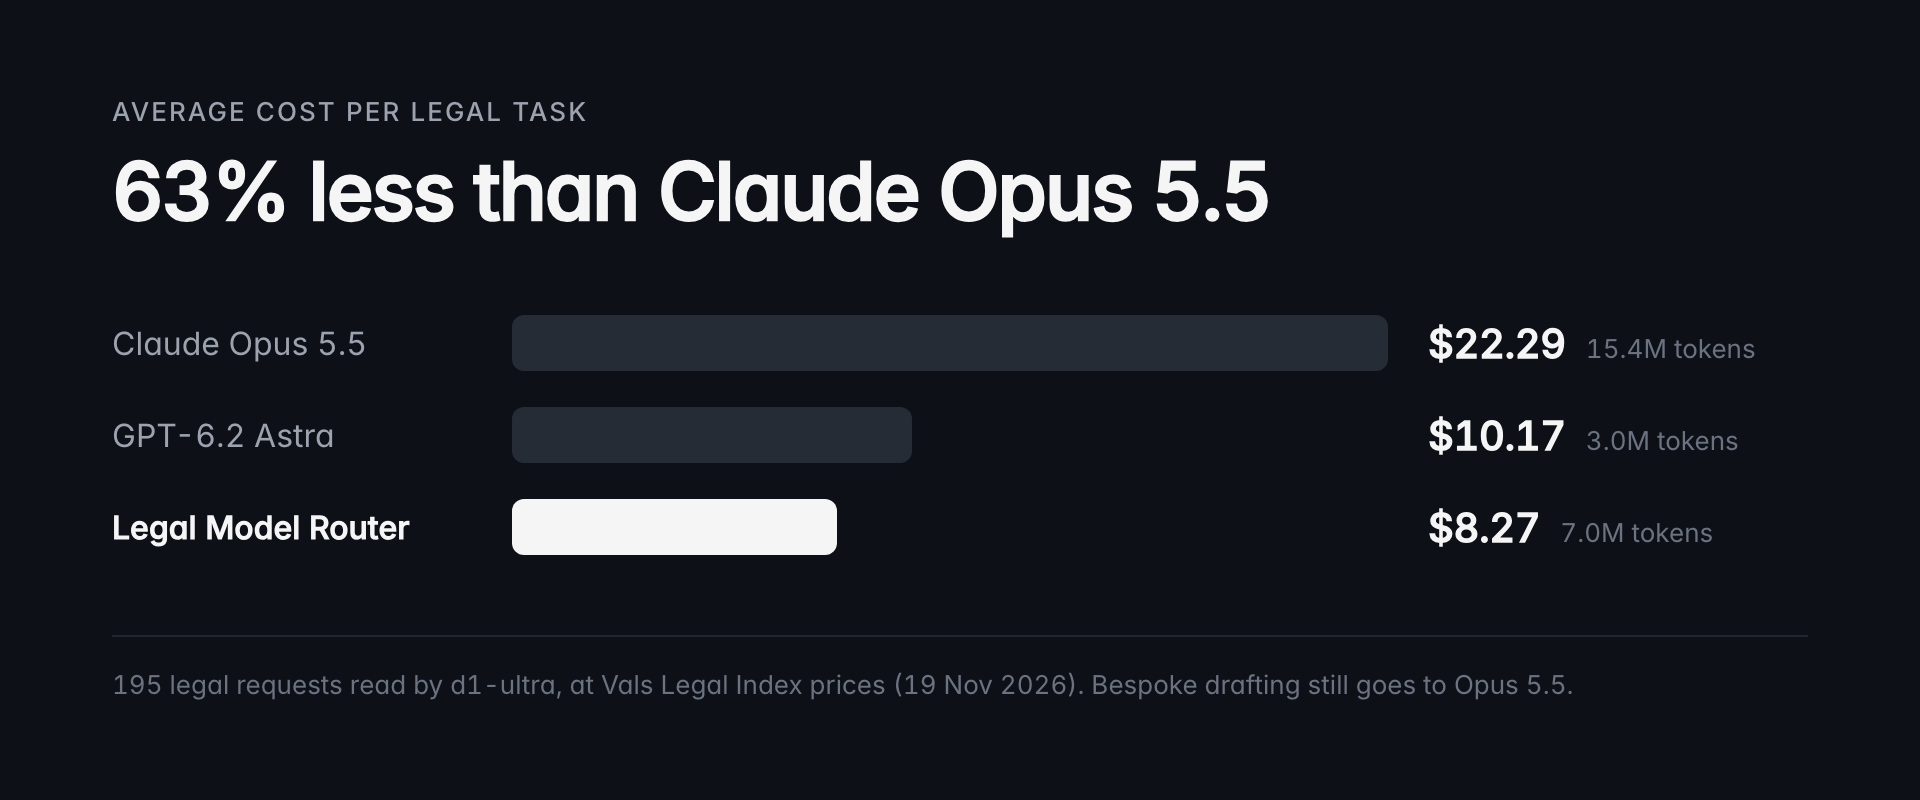
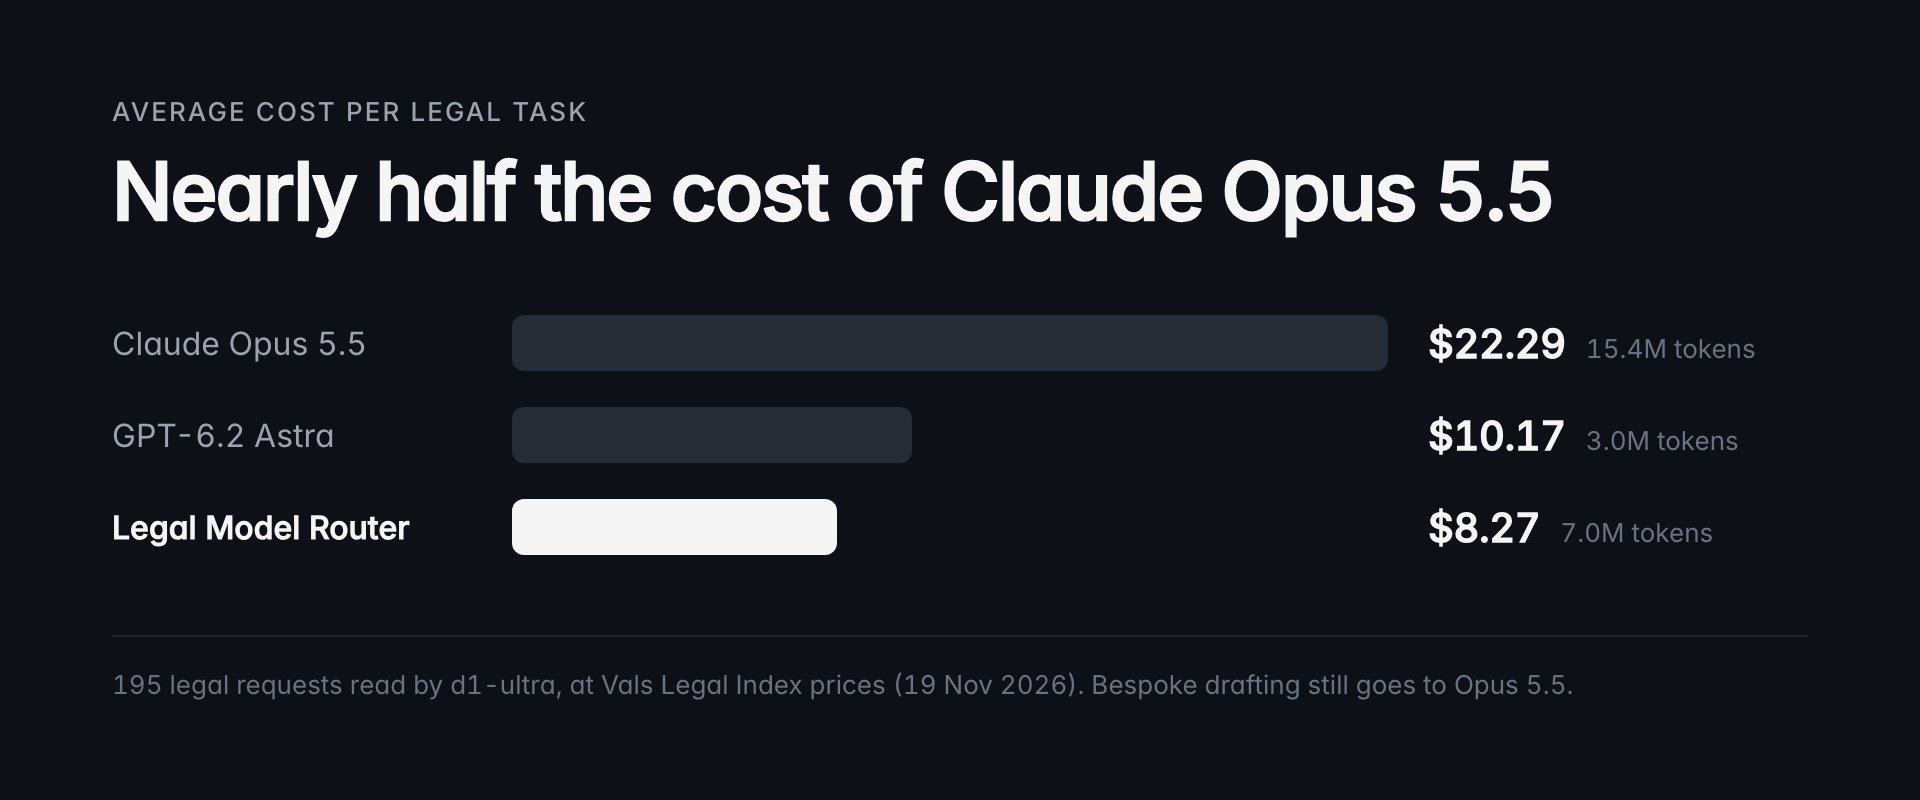
Savings stated as nearly half; absolute README links for PyPI

Changed region(s): [[0.0625, 0.1875, 0.8125, 0.3125]]

diff --git a/docs/assets/savings-dark.html b/docs/assets/savings-dark.html
@@ -28,7 +28,7 @@
 </head>
 <body>
   <div class="eyebrow">Average cost per legal task</div>
-  <h1>63% less than Claude Opus 5.5</h1>
+  <h1>Nearly half the cost of Claude Opus 5.5</h1>
   <div class="chart">
       <div class="row">
         <div class="label">Claude Opus 5.5</div>

diff --git a/docs/assets/savings-light.html b/docs/assets/savings-light.html
@@ -28,7 +28,7 @@
 </head>
 <body>
   <div class="eyebrow">Average cost per legal task</div>
-  <h1>63% less than Claude Opus 5.5</h1>
+  <h1>Nearly half the cost of Claude Opus 5.5</h1>
   <div class="chart">
       <div class="row">
         <div class="label">Claude Opus 5.5</div>

diff --git a/scripts/render_savings_chart.py b/scripts/render_savings_chart.py
@@ -30,8 +30,7 @@ THEMES = {
 def page(theme: str) -> str:
     e = estimate()
     cost, tokens = e['cost'], e['tokens']
-    ours, top = cost['Legal Model Router'], max(cost[b] for b in BARS)
-    saving = 1 - ours / cost['Claude Opus 5.5']
+    top = max(cost[b] for b in BARS)
     t = THEMES[theme]
     rows = []
     for name in BARS:
@@ -72,7 +71,7 @@ def page(theme: str) -> str:
 </head>
 <body>
   <div class="eyebrow">Average cost per legal task</div>
-  <h1>{saving:.0%} less than Claude Opus 5.5</h1>
+  <h1>Nearly half the cost of Claude Opus 5.5</h1>
   <div class="chart">{''.join(rows)}
   </div>
   <footer>{e['requests']} legal requests read by d1-ultra, at Vals Legal Index prices (19 Nov 2026). Bespoke drafting still goes to Opus 5.5.</footer>

diff --git a/README.md b/README.md
@@ -1,6 +1,6 @@
 # Legal Model Router
 
-**Cut your legal AI bill by 63%. Keep the flagship model for the work that needs it.**
+**Cut your legal AI bill nearly in half. Keep the flagship model for the work that needs it.**
 
 Most teams send every legal task to one premium model: the NDA, the lease summary, the share purchase
 agreement and the billing question all at the same price. The Legal Model Router reads each request, works
@@ -13,34 +13,35 @@ d1-ultra (100%) by default, Decider V1.3 (99.8%, free) or Elephant-1 if you pref
 
 One OpenRouter key. One command: `/legal-router` in Claude Code. Zero data retention on every call.
 
-[![License: MIT](https://img.shields.io/badge/license-MIT-blue.svg)](LICENSE)
+[![License: MIT](https://img.shields.io/badge/license-MIT-blue.svg)](https://github.com/onurkafk/legal-model-router/blob/main/LICENSE)
 ![Python 3.11+](https://img.shields.io/badge/python-3.11%2B-blue.svg)
 ![Zero data retention](https://img.shields.io/badge/OpenRouter-zero%20data%20retention-green.svg)
 
 ---
 
-## The same legal work for 63% less
+## The same legal work for nearly half the price
 
 We wrote 195 realistic legal requests, from research questions and contract drafts to reviews, extractions,
 translations and billing questions. Then we priced each one twice: on the model the router chose, and on
 Claude Opus 5.5 for everything.
 
 <picture>
-  <source media="(prefers-color-scheme: dark)" srcset="docs/assets/savings-dark.png">
-  <img alt="Average cost per legal task: Claude Opus 5.5 $22.29, GPT-6.2 Astra $10.17, Legal Model Router $8.27" src="docs/assets/savings-light.png" width="720">
+  <source media="(prefers-color-scheme: dark)" srcset="https://raw.githubusercontent.com/onurkafk/legal-model-router/main/docs/assets/savings-dark.png">
+  <img alt="Average cost per legal task: Claude Opus 5.5 $22.29, GPT-6.2 Astra $10.17, Legal Model Router $8.27" src="https://raw.githubusercontent.com/onurkafk/legal-model-router/main/docs/assets/savings-light.png" width="720">
 </picture>
 
-An average task costs **$8.27 instead of $22.29**, and uses less than half the tokens. That is **$14,020
-saved on every 1,000 tasks**. The router also beats running everything on GPT-6.2 Astra, by 19%.
+On these requests the router cost **$8.27 a task against $22.29**. We promise less than that, **nearly half
+off**, because your bill depends on your own mix of work and the size of your documents. The router also
+came out cheaper than running everything on GPT-6.2 Astra.
 
 The savings come from routine work. The work that needs the strongest model still gets it:
 
-| Kind of work | Share of requests | Goes to | Cost against Opus 5.5 |
-|---|---|---|---|
-| Research and advice: anything that turns on the law | 40% | The line's best model that knows the law | **70% less** |
-| Review and markup of supplied text, standard-form drafting | 18% | A top-5 model within 3 points of #1 | **71% less** |
-| Extraction, summaries, translation, admin | 29% | The cheapest strong model | **78% less** |
-| Bespoke drafting | 13% | Claude Opus 5.5 | same |
+| Kind of work | Share of requests | Goes to |
+|---|---|---|
+| Research and advice: anything that turns on the law | 40% | The line's best model that knows the law |
+| Review and markup of supplied text, standard-form drafting | 18% | A top-5 model within 3 points of #1 |
+| Extraction, summaries, translation, admin | 29% | The cheapest strong model |
+| Bespoke drafting | 13% | Claude Opus 5.5, at the same price as today |
 
 Reading each request first costs $0.00014 with d1-ultra, and nothing with Decider V1.3. Prices are Vals Legal
 Index task prices (19 November 2026); your bill scales with the size of your requests. Check every figure
@@ -101,7 +102,7 @@ the overall #1. If the decision model cannot answer at all, the request still ru
 
 All three send every law-dependent request and every bespoke draft in our test sets to a top model. Pick one with
 `legal-router init`, `--classifier NAME`, `LEGAL_ROUTER_CLASSIFIER`, or the plugin's "Decision model"
-setting. Only measured models are accepted; [`docs/evaluation.md`](docs/evaluation.md) has the comparison.
+setting. Only measured models are accepted; [`docs/evaluation.md`](https://github.com/onurkafk/legal-model-router/blob/main/docs/evaluation.md) has the comparison.
 
 #### Long requests
 
@@ -119,9 +120,9 @@ Each Vals line has four picks, rebuilt from the benchmark data by one script:
 | **Economy** | Extraction, summaries, chronologies, translation, admin | The cheapest model within 8 points of #1 that uses no more tokens than #1, and never dearer than Best |
 | **Escalated** | Bespoke drafting from scratch, and every send-back | Claude Opus 5.5 |
 
-The rules live in one readable file, [`config/routing-policy.yaml`](config/routing-policy.yaml). The full
+The rules live in one readable file, [`config/routing-policy.yaml`](https://github.com/onurkafk/legal-model-router/blob/main/config/routing-policy.yaml). The full
 table they produce, with every score, cost and token count, is in
-[`config/routing-table.md`](config/routing-table.md).
+[`config/routing-table.md`](https://github.com/onurkafk/legal-model-router/blob/main/config/routing-table.md).
 
 ### 3. Work: the call
 
@@ -235,7 +236,7 @@ The key comes from the `key=` argument, then `OPENROUTER_API_KEY`, then `legal-r
 ## Cheap where it can be, never where it matters
 
 The savings come without sending law-dependent work down. On a fresh holdout of 55 legal requests and a
-stress set of 116 hard ones (full figures in [`docs/evaluation.md`](docs/evaluation.md)):
+stress set of 116 hard ones (full figures in [`docs/evaluation.md`](https://github.com/onurkafk/legal-model-router/blob/main/docs/evaluation.md)):
 
 - **31 of 31** holdout requests that need the law or a bespoke draft went to a top model.
 - **28 of 28** law-dependent stress requests were caught.
@@ -247,11 +248,11 @@ stress set of 116 hard ones (full figures in [`docs/evaluation.md`](docs/evaluat
 Six requests written from real US appellate opinions (Indiana bar fight, Missouri landlord appeal, Montana
 estate, North Dakota DUI defense, Florida divorce, Massachusetts unpaid wages), run end to end. All six went to
 Best and all six answers matched what the court held. Two went further: they cited the later decisions that
-changed the law since the opinion was written. Details in [`docs/evaluation.md`](docs/evaluation.md).
+changed the law since the opinion was written. Details in [`docs/evaluation.md`](https://github.com/onurkafk/legal-model-router/blob/main/docs/evaluation.md).
 
 ## Changing the routing
 
-The policy is yours to change. Edit [`config/routing-policy.yaml`](config/routing-policy.yaml) (which
+The policy is yours to change. Edit [`config/routing-policy.yaml`](https://github.com/onurkafk/legal-model-router/blob/main/config/routing-policy.yaml) (which
 models are allowed, the thresholds, the rules) or refresh the benchmark snapshots in
 [`benchmarks/`](benchmarks), then rebuild:
 
@@ -272,5 +273,5 @@ uv run pytest
 
 ## License
 
-[MIT](LICENSE). Benchmark figures belong to their publishers: Vals AI, Artificial Analysis and
+[MIT](https://github.com/onurkafk/legal-model-router/blob/main/LICENSE). Benchmark figures belong to their publishers: Vals AI, Artificial Analysis and
 legalbenchmarks.ai. The router picks models; a lawyer signs off the work.
